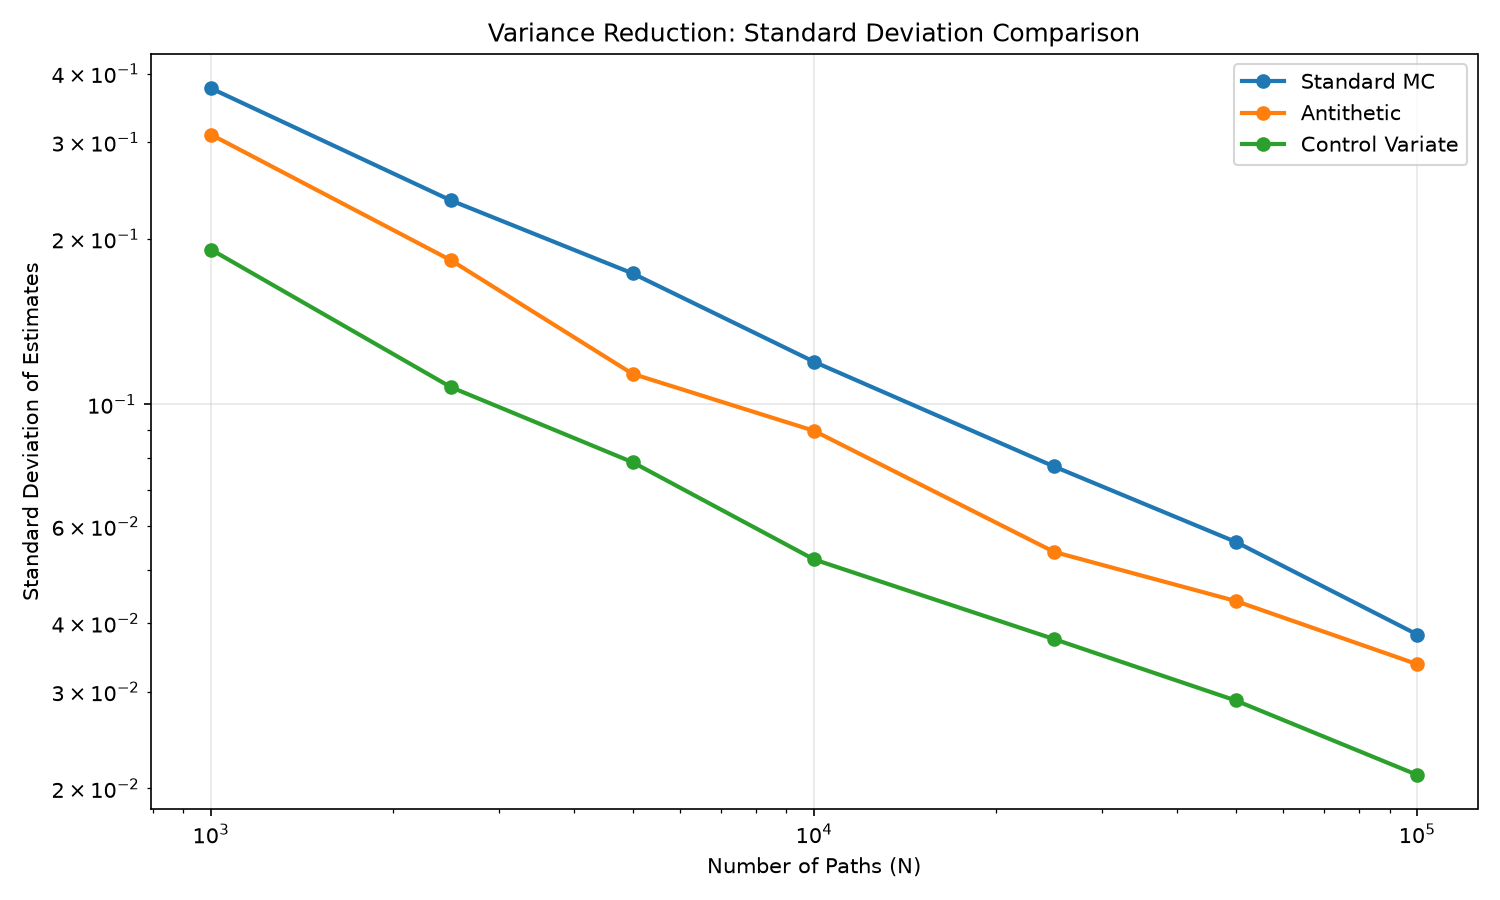
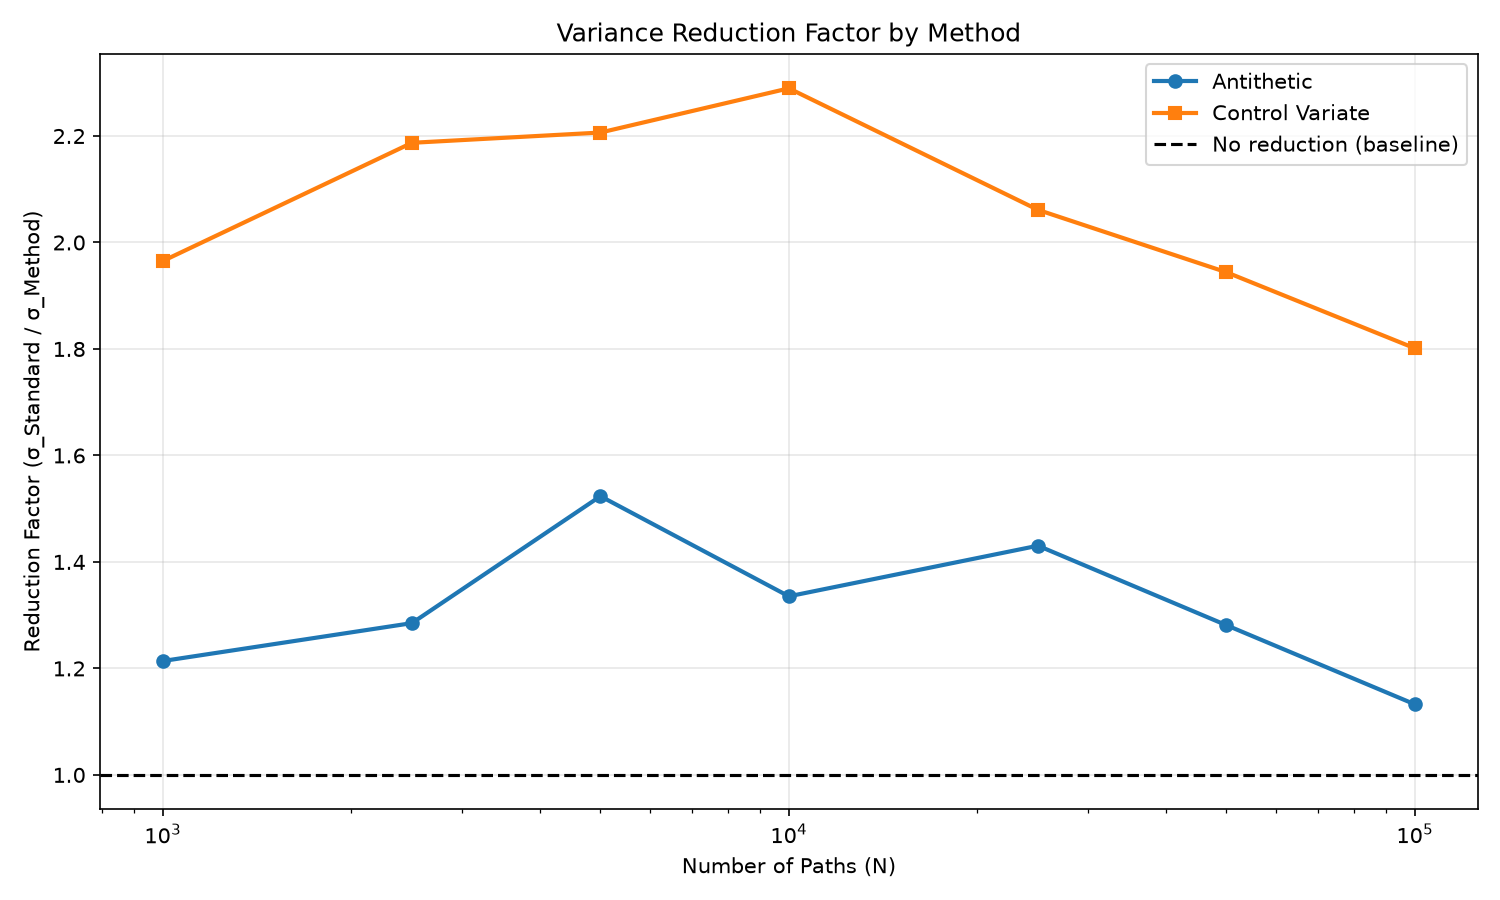
feat: enhance variance reduction plotting to show reduction factors relative to standard MC

diff --git a/src/mcoptions/convergence_analysis.py b/src/mcoptions/convergence_analysis.py
@@ -237,22 +237,43 @@ def plot_convergence_rmse(df, analytical_price):
 
 
 def plot_variance_reduction(df):
-    """Plot price standard deviation comparison across methods."""
+    """Plot variance-reduction factor (σ_Standard / σ_Method) vs N.
+
+    Shows how much variance reduction each method achieves relative to standard MC.
+    A factor of 2.0 means the method has half the standard deviation.
+    """
     try:
         import matplotlib.pyplot as plt
     except ImportError:
         print("matplotlib not available for plotting")
         return
 
+    # Pivot so each N has columns for each method's price_std
+    pivot_df = df.pivot(index="N", columns="method", values="price_std")
+
     plt.figure(figsize=(10, 6))
 
-    for method in df["method"].unique():
-        method_df = df[df["method"] == method].sort_values("N")
-        plt.loglog(method_df["N"], method_df["price_std"], marker="o", label=method, linewidth=2)
+    # Compute reduction factors for Antithetic and Control Variate
+    if "Standard MC" in pivot_df.columns:
+        standard_std = pivot_df["Standard MC"]
+
+        if "Antithetic" in pivot_df.columns:
+            antithetic_factor = standard_std / pivot_df["Antithetic"]
+            plt.semilogx(antithetic_factor.index, antithetic_factor.values,
+                        marker="o", label="Antithetic", linewidth=2)
+
+        if "Control Variate" in pivot_df.columns:
+            control_factor = standard_std / pivot_df["Control Variate"]
+            plt.semilogx(control_factor.index, control_factor.values,
+                        marker="s", label="Control Variate", linewidth=2)
+
+    # Baseline: no reduction
+    n_min, n_max = df["N"].min(), df["N"].max()
+    plt.axhline(1.0, color="k", linestyle="--", linewidth=1.5, label="No reduction (baseline)")
 
     plt.xlabel("Number of Paths (N)")
-    plt.ylabel("Standard Deviation of Estimates")
-    plt.title("Variance Reduction: Standard Deviation Comparison")
+    plt.ylabel("Reduction Factor (σ_Standard / σ_Method)")
+    plt.title("Variance Reduction Factor by Method")
     plt.legend()
     plt.grid(alpha=0.3)
     plt.tight_layout()
